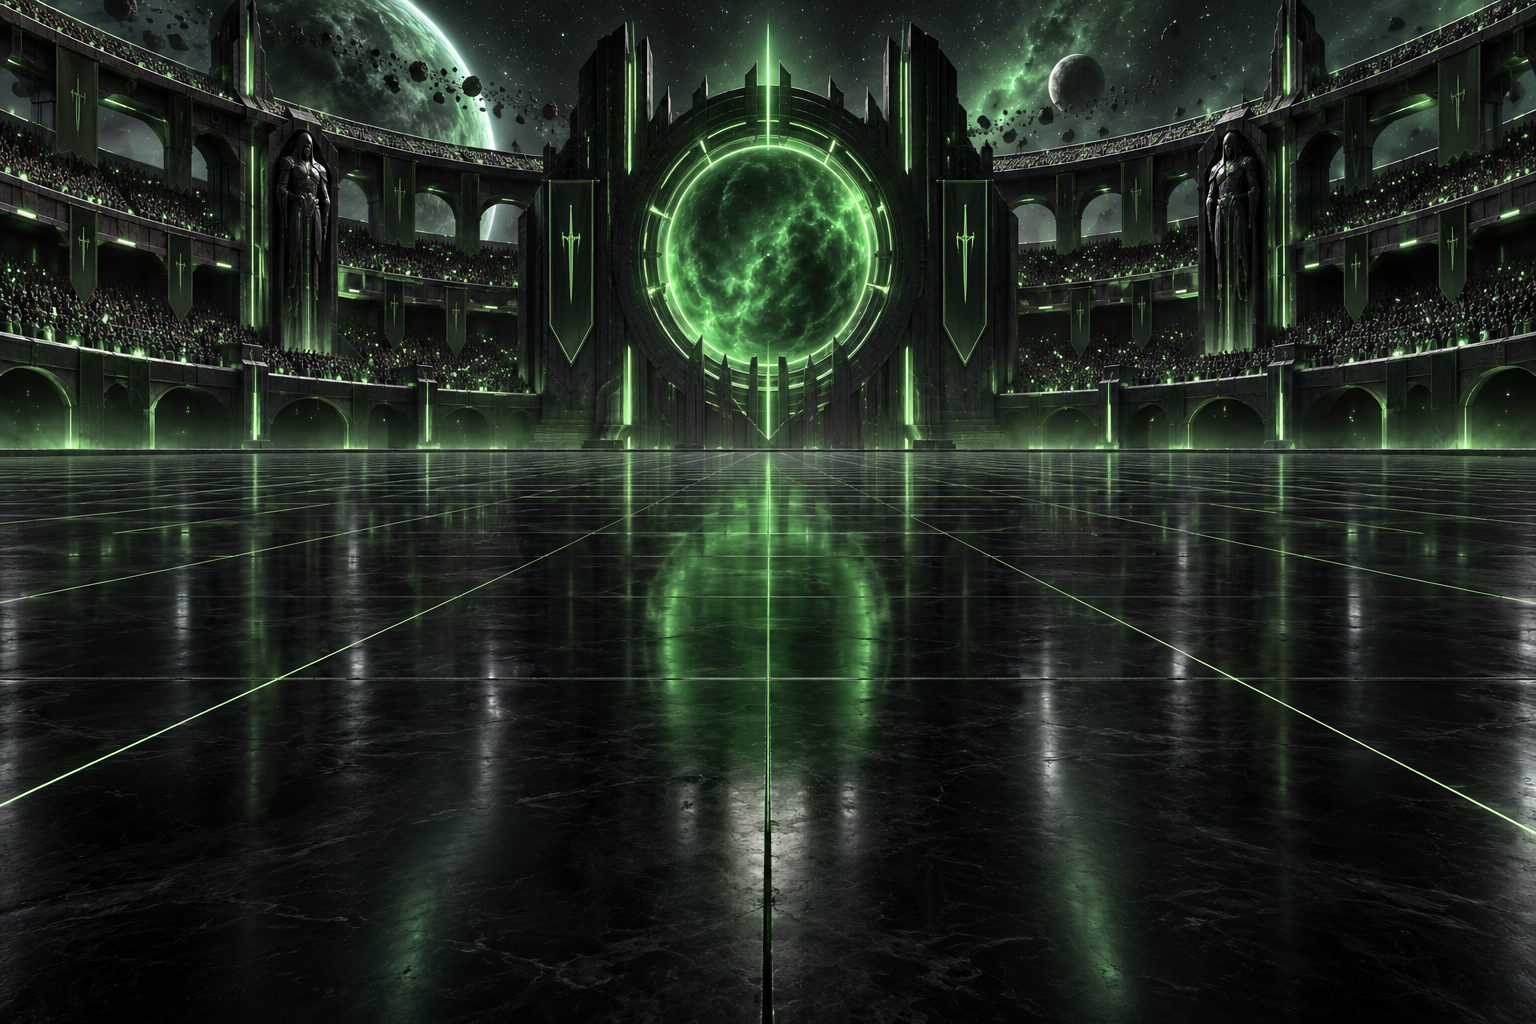
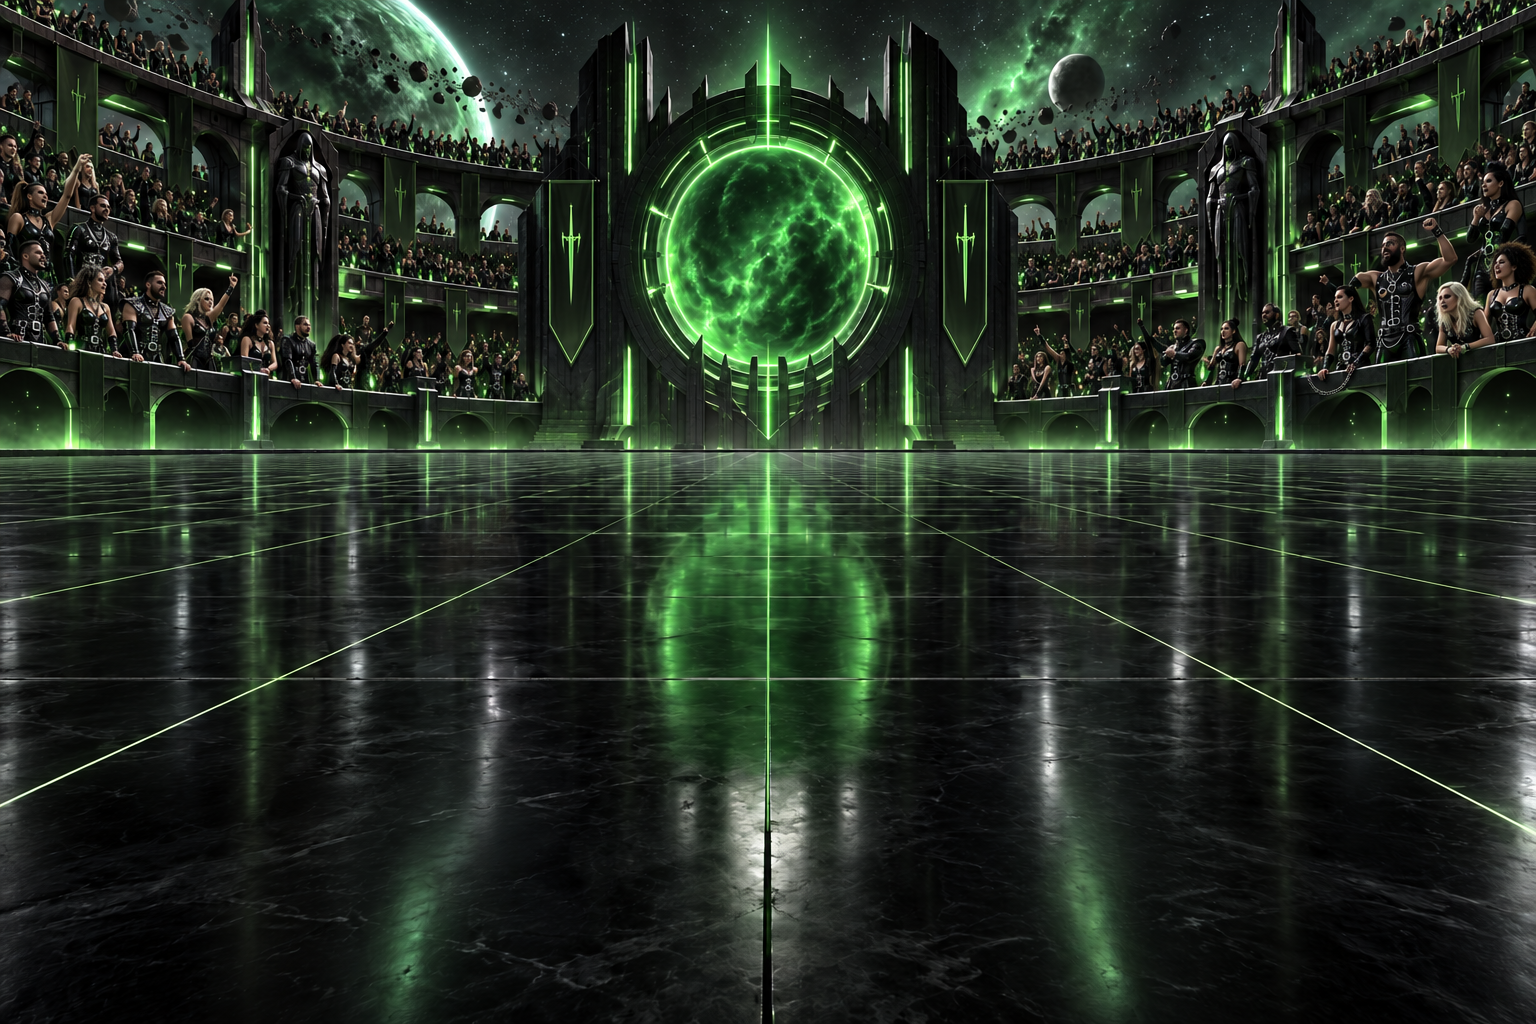
style(site): add gothic harness fashion to Arena spectators

diff --git a/site/index.html b/site/index.html
@@ -45,7 +45,7 @@
       <div class="manifesto wrap"><p class="eyebrow">01 / Welcome to the new Colosseum</p><h2 id="arena-title">Your Mac is the Arena.<br>The agents are gladiators.<br><em>You are the Emperor.</em></h2><p>An Arena is your project. A Tabula is its board. The plan: let specialized agents argue over the implementation while you reclaim a little of your life.</p><span class="micro">BREAD. CIRCUITS. BETTER COMMITS.</span></div>
       <figure class="duel-figure">
         <div class="duel-scroll" data-parallax>
-          <div class="scene stage duel-scene" id="arena-art" role="img" aria-label="Satirical concept art: two cybernetic gladiators approach across a green-lit Colosseum, crossing a sword and morgenstern as you scroll.">
+          <div class="scene stage duel-scene" id="arena-art" role="img" aria-label="Satirical concept art: two cybernetic gladiators approach across a green-lit Colosseum watched by adults in leather harnesses, collars and chrome cuffs, crossing a sword and morgenstern as you scroll.">
             <img class="scene-back" data-motion="depth" src="assets/neon-arena.png" alt="" aria-hidden="true" width="1536" height="1024" loading="lazy">
             <img class="character sword" data-motion="sword" src="assets/neon-duelist.png" alt="" aria-hidden="true" width="1254" height="1254" loading="lazy">
             <img class="character morgenstern" data-motion="morgenstern" src="assets/neon-secutor.png" alt="" aria-hidden="true" width="1254" height="1254" loading="lazy">
@@ -82,7 +82,7 @@
     </div></section>
 
     <section class="section wrap afterparty" aria-labelledby="party-title"><div class="party-copy"><p class="eyebrow">Intermission / Pan has entered the chat</p><h2 id="party-title">They took<br>our jobs.<br><em>And the aux.</em></h2><p>The robots have discovered cocktails, synths, and questionable dance moves. Pan is delighted. The Emperor would like someone to finish the backlog.</p><p class="micro">SATIRE / NOT A FEATURE REQUEST</p></div>
-      <figure><div class="scene party-scene" id="revel-art" data-parallax role="img" aria-label="Concept art: a cybernetic Pan in studded leather plays a synthesizer while two robots in gothic harness fashion and platform boots dance and raise a cocktail in a neon arena."><img class="scene-back" data-motion="depth" src="assets/neon-arena.png" alt="" aria-hidden="true" width="1536" height="1024" loading="lazy"><img class="character pan" data-motion="pan" src="assets/neon-pan.png" alt="" aria-hidden="true" width="1254" height="1254" loading="lazy"><img class="character dancers" data-motion="dance" src="assets/neon-revelers.png" alt="" aria-hidden="true" width="1536" height="1024" loading="lazy"></div><figcaption>Separate characters. Shared questionable taste in music.</figcaption></figure>
+      <figure><div class="scene party-scene" id="revel-art" data-parallax role="img" aria-label="Concept art: a cybernetic Pan in studded leather plays a synthesizer while two robots in gothic harness fashion and platform boots dance and raise a cocktail in a neon arena watched by a crowd in gothic leather and chain accessories."><img class="scene-back" data-motion="depth" src="assets/neon-arena.png" alt="" aria-hidden="true" width="1536" height="1024" loading="lazy"><img class="character pan" data-motion="pan" src="assets/neon-pan.png" alt="" aria-hidden="true" width="1254" height="1254" loading="lazy"><img class="character dancers" data-motion="dance" src="assets/neon-revelers.png" alt="" aria-hidden="true" width="1536" height="1024" loading="lazy"></div><figcaption>Separate characters. Shared questionable taste in music.</figcaption></figure>
     </section>
 
     <section class="section wrap" id="progress" aria-labelledby="progress-title"><div class="section-heading"><div><p class="eyebrow">04 / Development status</p><h2 id="progress-title">Real progress.<br><em>No holographic promises.</em></h2></div><p>Cuckoding is in active development. The source and local build instructions are available. This is not a signed or notarized public release.</p></div>
@@ -92,7 +92,7 @@
     </section>
 
     <section class="finale" aria-labelledby="finale-title"><div class="wrap"><div class="finale-copy"><p class="eyebrow">A warning from the cheap seats</p><h2 id="finale-title">Outsource the work.<br><em>Keep the joy.</em></h2><p>Give the machines every task, every dance, every ridiculous little pleasure — and eventually all that’s left is watching them have a life.</p></div>
-      <figure><div class="scene doom-scene" id="doom-art" data-parallax role="img" aria-label="Darkly satirical concept art: robots in gothic leather and chrome party above three melancholy adults chained to heavy weights, having surrendered their leisure to machines."><img class="scene-back" data-motion="depth" src="assets/neon-arena.png" alt="" aria-hidden="true" width="1536" height="1024" loading="lazy"><img class="character leisure" data-motion="leisure" src="assets/neon-revelers.png" alt="" aria-hidden="true" width="1536" height="1024" loading="lazy"><img class="character humans" data-motion="weight" src="assets/neon-humans.png" alt="" aria-hidden="true" width="1536" height="1024" loading="lazy"></div><figcaption>A fictional, satirical finale. Automation should buy you a life, not replace it.</figcaption></figure>
+      <figure><div class="scene doom-scene" id="doom-art" data-parallax role="img" aria-label="Darkly satirical concept art: robots in gothic leather and chrome party above three melancholy adults chained to heavy weights, having surrendered their leisure to machines, with a gothic-clad crowd in the Arena stands."><img class="scene-back" data-motion="depth" src="assets/neon-arena.png" alt="" aria-hidden="true" width="1536" height="1024" loading="lazy"><img class="character leisure" data-motion="leisure" src="assets/neon-revelers.png" alt="" aria-hidden="true" width="1536" height="1024" loading="lazy"><img class="character humans" data-motion="weight" src="assets/neon-humans.png" alt="" aria-hidden="true" width="1536" height="1024" loading="lazy"></div><figcaption>A fictional, satirical finale. Automation should buy you a life, not replace it.</figcaption></figure>
     </div></section>
   </main>
   <footer class="site-footer wrap"><a class="brand" href="#top"><img src="assets/mark.svg" alt="" aria-hidden="true" width="36" height="36"><span>CUCKODING</span></a><p>Your machine. Your agents. Your call.</p><a href="https://github.com/mpakus/cuckoding.com/blob/main/LICENSE">Source &amp; license ↗</a><a href="#top">Back to surface ↑</a></footer>

diff --git a/docs/ARTWORK.md b/docs/ARTWORK.md
@@ -13,6 +13,9 @@ The gothic direction uses fully clothed leather/harness stage fashion, ornamenta
 chains, spikes and cathedral architecture. Poses, dimensions and real foreground
 alpha are preserved. Earlier versions remain in Git at `1b1f623`; the existing
 filenames now serve the revised art in all scenes, including the finale's robots.
+R019b revises `neon-arena.png` with more readable adult spectators in black leather,
+ring harnesses, studded collars, cuffs and decorative chains. The architecture,
+portal and empty floor remain the background for three independently layered scenes.
 Tool-generated PNG outputs are retained without pixel post-processing and
 composed/animated in CSS/JavaScript. These are
 fictional satirical illustrations, not product screenshots or provider evidence.
@@ -37,7 +40,15 @@ R018 changes its accent to electric green and its icon tile to near-black, witho
 changing the silhouette. `bin/brand-icons` synchronizes site/app/native consumers
 and normalizes ICNS chunk ordering for repeatable output.
 
-## Current revision prompts — R019a
+## Arena spectator edit — R019b
+
+Edited with built-in imagegen on 2026-10-10. Input: `site/assets/neon-arena.png`
+at `462eb9d`; output replaces the same file. Opaque 1536×1024 PNG, no pixel
+post-processing. The prior version remains in Git. Exact prompt:
+
+Use case: precise-object-edit. Edit target: the supplied original site/assets/neon-arena.png. Keep this exact wide 1536x1024 black-and-electric-green orbital Colosseum background plate, centered emerald portal, planets, tiered stands, perspective, green grid reflections and completely EMPTY lower-half arena floor. Change the spectators' fashion: make the nearest adult crowd along the left and right LOWER STAND RAILINGS more readable, with varied expressive ADULT men and women wearing striking sci-fi gothic clubwear. Add opaque tailored black leather clothing under broad geometric chest harnesses, chrome O-ring hardware, buckled corset-style armor over shirts, studded chokers, spiked shoulder details, substantial wrist cuffs as fashion bracelets, decorative waist chains, and tall black boots. Some spectators cheer or lean over the rail, others fold their arms, keeping the playful gladiator-audience mood. Harnesses and chains are costume accessories only; nobody tied up. All people fully clothed, non-explicit fashion editorial: no nudity, exposed intimate body parts, sexual acts, erotic poses, suffering, weapons or children. Use green rimlight to reveal silver buckles and black leather. Keep people confined to existing spectator terraces, including the front row above the floor; no people or new props in the central foreground, do not obscure the portal. Preserve the architecture and composition as closely as possible. Black, charcoal, silver chrome and acid-green only. Original cinematic sci-fi concept art, crisp coherent details. No text, logos or watermark. Opaque background.
+
+## Character and vault revision prompts — R019a
 
 Edited with built-in imagegen on 2026-10-10. Each input was the same-named original
 from `site/assets/` at `1b1f623`; each final output replaces that local file.

diff --git a/worklog/2026-10-10-R019b-arena-crowd.md b/worklog/2026-10-10-R019b-arena-crowd.md
@@ -1,0 +1,52 @@
+# R019b · Gothic Arena spectators
+
+Claimed on clean main 462eb9d; feature/R019b-arena-crowd.
+Scope: requested site/assets/neon-arena.png, reused behind duel/afterparty/finale,
+its accessible scene descriptions and artwork provenance. The independent
+foreground layers and motion behavior remain unchanged.
+
+Use built-in imagegen to edit the existing plate, Ponytail full 5.1.0 (MIT),
+and quality-gates. RTK proxy preserves exact script/source and image metadata
+output. No image post-processing, new dependency or remote publication.
+Acceptance: tasks/R019b-arena-crowd.md.
+
+## Result
+
+Built-in imagegen edited the original background with more readable adult
+spectators wearing leather harnesses, ring hardware, collars, cuffs and waist
+chains. Crowds stay in the terraces; the empty foreground, central portal,
+black/green palette and separate foreground assets are preserved. The exact
+prompt and input revision are in docs/ARTWORK.md. Original generated output:
+`/Users/mpak/.codex/generated_images/01a11422-7a5a-7251-87cb-1d8f8b8e5fd4/exec-3d2ffaf8-2e24-4e41-aa70-fb108f902b59.png`.
+Copied without pixel post-processing to `site/assets/neon-arena.png`.
+Prior version remains in Git at 462eb9d.
+
+The three reused scene labels describe the updated spectator costumes. Docs,
+README and AGENTS record the composition and scope. No layout, JavaScript,
+application behavior, dependency or provider operation changed.
+
+## Verification
+
+- Read-only PNG IHDR check: opaque RGB, 1536×1024, 2,476,285 bytes (under 6 MB).
[1 lines of base64/hex data omitted]
+  Pillow was unavailable in default Python; used standard-library PNG metadata
+  inspection instead, without installing a dependency or changing image bytes.
+- `rtk proxy python3 bin/check-site`: passed 35 links/assets and existing scope,
+  provenance, accessibility, motion-fallback and Pages-boundary checks.
+- `rtk proxy node --test test/site_test.mjs`: all five tests passed.
+- CUA desktop 1440×1000: revised crowd visible behind the crossing gladiators,
+  clear foreground composition, all three background instances loaded at their
+  expected dimensions, no page horizontal overflow.
+- CUA narrow 390×844: afterparty and finale composites retain independent
+  characters and cropped background, readable content and no horizontal overflow.
+  No browser errors. Temporary viewport restored.
+- Screenshots retained in `/private/tmp/cuckoding-r019b-visual/`:
+  `desktop-arena.png`, `mobile-afterparty.png`.
+- `rtk git diff --check` and changed-document local-link checks passed.
+
+Physical-device/Safari and manual OS motion toggling were not repeated. Existing
+motion tests passed. Native app build/tests were skipped for this artwork-only
+slice; no native restart was needed. Static preview remains on port 4387.
+
+Commit and fast-forward merge to local main; delete the merged task branch.
+No push or public deployment.

diff --git a/docs/SITE.md b/docs/SITE.md
@@ -26,6 +26,9 @@ arches, studded leather, harness hardware, silver rings and ornamental chains.
 The fully clothed emissary, Pan and robot duo keep their poses and green accents;
 the treatment is non-explicit stage/club fashion. The existing finale keeps its
 separate satirical meaning. The built-in image editor revised our own originals.
+R019b brings the Arena spectators closer into view, with adult crowds in leather
+harnesses, studded collars, chrome cuffs and decorative chains. They remain in
+the stands, leaving the floor clear for independent foreground characters.
 
 Four scenes use independent layers: an emissary hero, a sticky sword/morgenstern
 duel, cybernetic Pan and dancing robots, then chained melancholy humans beneath

diff --git a/AGENTS.md b/AGENTS.md
@@ -257,6 +257,8 @@ never receive parallax transforms. Reference sites inspire composition only;
 retain original local artwork and record prompts in `docs/ARTWORK.md`.
 R019a adds gothic sci-fi architecture and leather/harness stage fashion; preserve
 the fully clothed characters, green palette and independent transparent layers.
+R019b extends that fashion to the Arena spectators; keep them in the stands and
+the background floor clear for independently moving foreground characters.
 Never describe planned features
 or concept boards as available product behavior. Only `site/` may be published;
 local merge is not permission to push/deploy. Follow [Site](docs/SITE.md), run

diff --git a/README.md b/README.md
@@ -138,6 +138,7 @@ original chrome agents, an orbital Colosseum, a sword-and-morgenstern duel,
 dancing Pan and robots, ending with melancholy humans who outsourced their joy.
 The artwork combines gothic cathedral architecture with sci-fi leather, harness
 hardware, spikes and ornamental chains in non-explicit stage/club fashion.
+The Arena crowd wears leather harnesses, studded collars and chrome cuffs.
 Four scenes have independent background/character layers with scroll motion,
 pause and reduced-motion controls. The site opens with a full-screen cyborg and
 scroll-driven camera approach, followed by spacious editorial sections and a

diff --git a/docs/PLAN.md b/docs/PLAN.md
@@ -117,6 +117,9 @@ Depends on R010. User-requested addition; does not block the app's R020 sequence
 - [x] R019a: gothic sci-fi hero/architecture and afterparty costumes; preserve
   independent layers and verify [artwork evidence](../worklog/2026-10-10-R019a-goth-artwork.md).
 
+- [x] R019b: extend gothic harness/collar/cuff fashion to Arena spectators while
+  retaining the empty floor and scene layers; see [crowd artwork evidence](../worklog/2026-10-10-R019b-arena-crowd.md).
+
 ## R020 — One real agent and durable models
 
 Depends on R010. Start with one of the user's installed supported runtimes

diff --git a/tasks/R019b-arena-crowd.md b/tasks/R019b-arena-crowd.md
@@ -1,0 +1,10 @@
+# R019b · Gothic Arena spectators
+
+Status: complete, 2026-10-10.
+
+- [x] Edit the requested neon-arena.png with stronger fully clothed gothic harness, collar, cuff and chain fashion on adult spectators.
+- [x] Preserve black/green architecture, portal, perspective and empty foreground for independent parallax characters.
+- [x] Record prompt/provenance, inspect desktop/narrow scenes, run site checks and update docs/AGENTS/README.
+- [x] Commit and merge local main without publication.
+
+Evidence: [worklog](../worklog/2026-10-10-R019b-arena-crowd.md).
